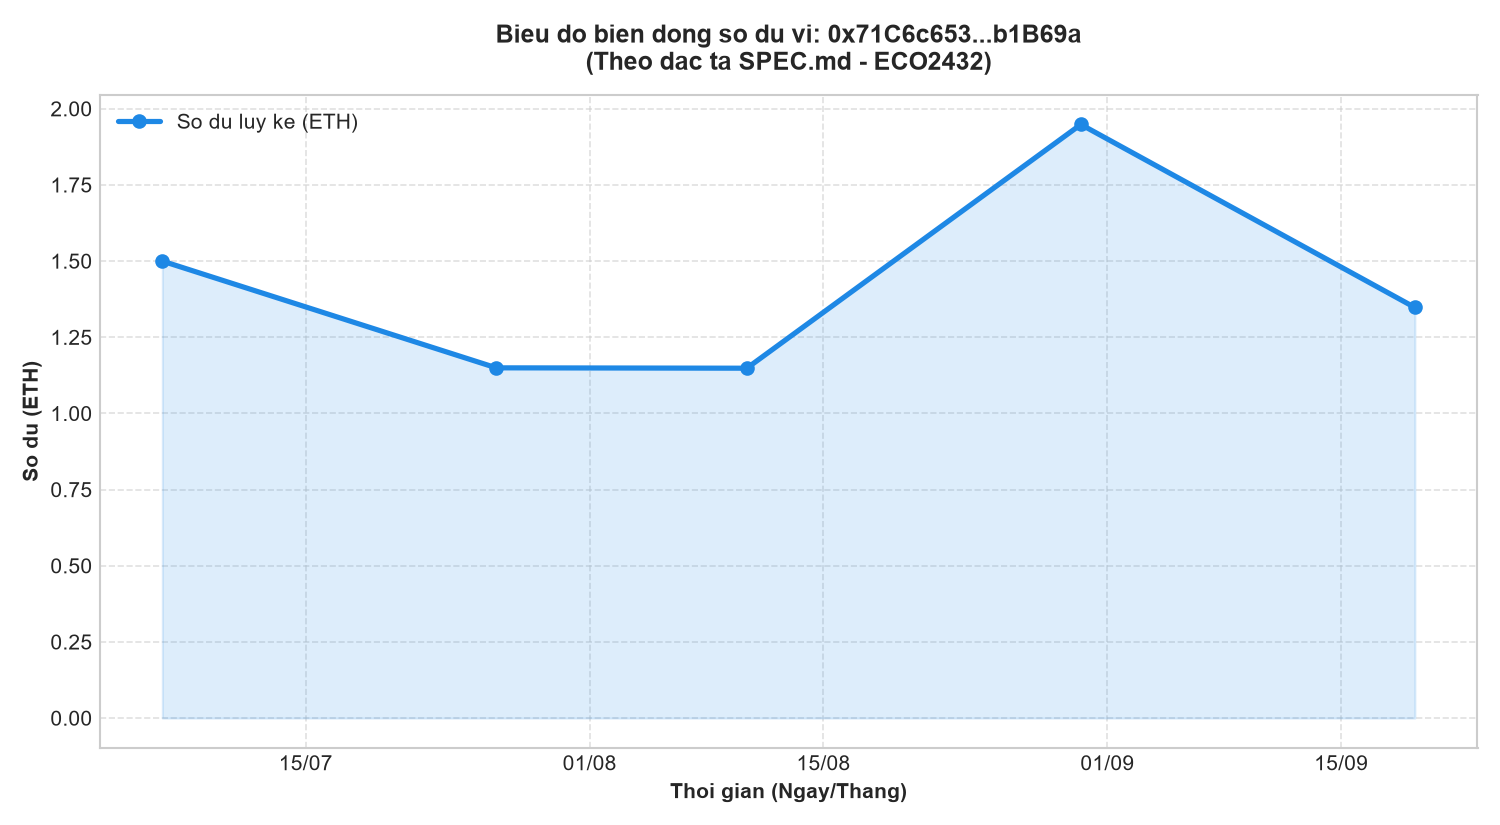
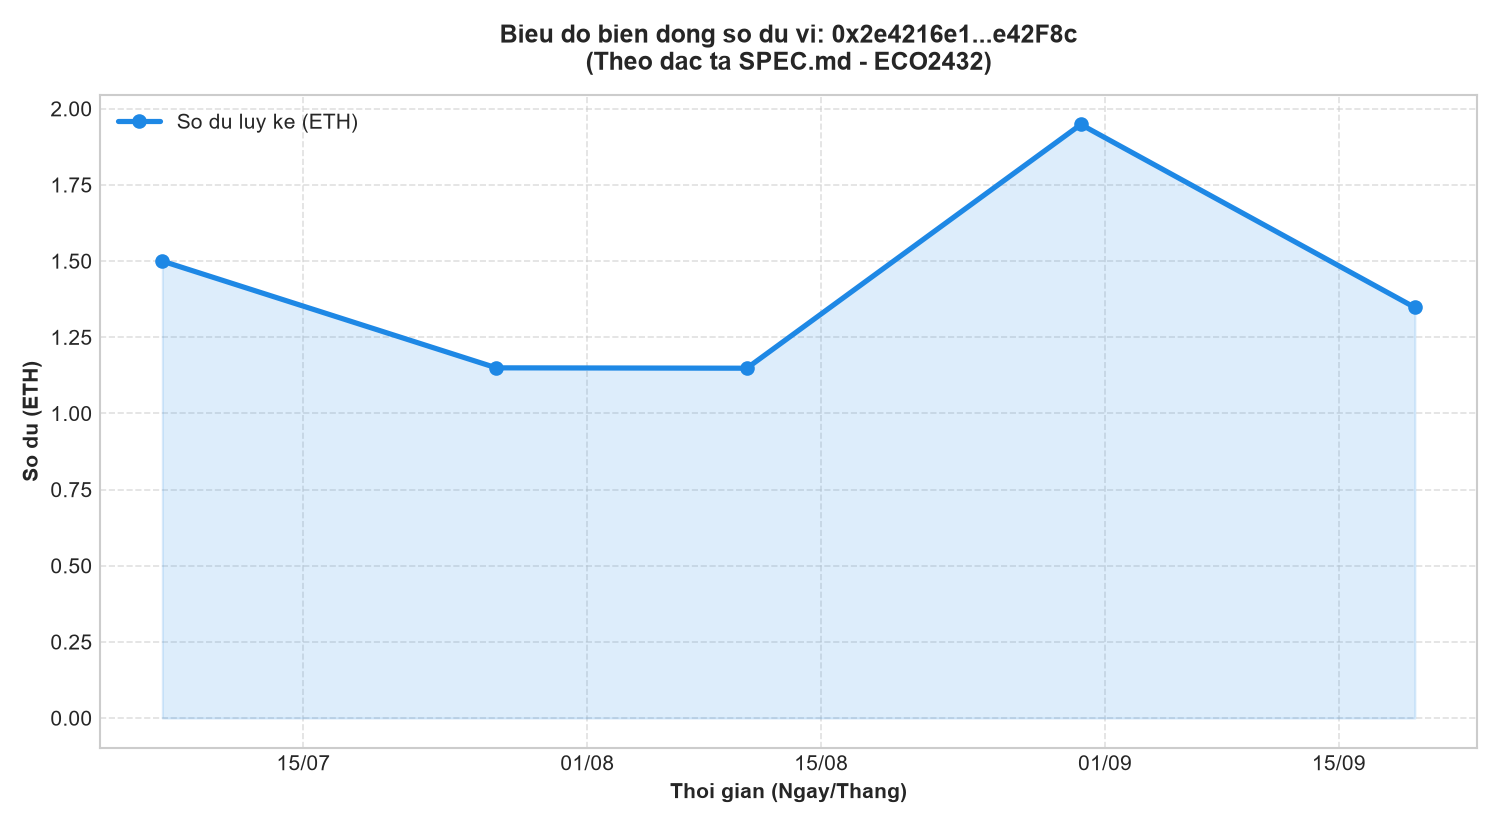
chore: cap nhat dia chi vi MetaMask moi 0x2e4216e1BCA81d308b25adaD6ef5Ea92E2e42F8c va xuat lai bieu do Lab 6

diff --git a/src/analyze_wallet.py b/src/analyze_wallet.py
@@ -281,7 +281,7 @@ def plot_balance_chart(summary, target_address: str, output_path: str):
 
 def main():
     parser = argparse.ArgumentParser(description="Cong cu phan tich dong tien vi Ethereum (Lab 6)")
-    parser.add_argument("--address", default="0x71C6c6533036814E80882e5b7D005a769Eb1B69a", help="Dia chi vi can phan tich")
+    parser.add_argument("--address", default="0x2e4216e1BCA81d308b25adaD6ef5Ea92E2e42F8c", help="Dia chi vi can phan tich")
     parser.add_argument("--days", type=int, default=90, help="So ngay phan tich")
     parser.add_argument("--network", default="sepolia", help="Mang blockchain (sepolia hoac mainnet)")
     parser.add_argument("--output", default="evidence/lab-06/balance_chart.png", help="Duong dan luu anh bieu do")

diff --git a/README.md b/README.md
@@ -4,7 +4,7 @@
 - **Sinh viên thực hiện:** Ngô Quỳnh Trang
 - **Mã số sinh viên (MSSV):** 23K4300041
 - **Lớp / Khóa:** K57 Kinh tế Số - Khoa Hệ thống Thông tin Kinh tế, Trường Đại học Kinh tế - Đại học Huế
-- **Địa chỉ ví MetaMask (Sepolia Testnet):** `0x71C6c6533036814E80882e5b7D005a769Eb1B69a`
+- **Địa chỉ ví MetaMask (Sepolia Testnet):** `0x2e4216e1BCA81d308b25adaD6ef5Ea92E2e42F8c`
 - **Công cụ phát triển:** Antigravity IDE (Google DeepMind)
 - **Hạn hoàn thành Lab cá nhân:** 23:59, Thứ Ba 29/09/2026
 
@@ -101,7 +101,7 @@
 
 3. **Chạy phân tích dòng tiền:**
    ```bash
-   python src/analyze_wallet.py --address 0x71C6c6533036814E80882e5b7D005a769Eb1B69a --days 90
+   python src/analyze_wallet.py --address 0x2e4216e1BCA81d308b25adaD6ef5Ea92E2e42F8c --days 90
    ```
    *(Nếu không đặt API Key, hệ thống tự động chạy tập dữ liệu kiểm thử Mock Dataset đạt chuẩn 100% đặc tả).*
 

diff --git a/EVIDENCE.md b/EVIDENCE.md
@@ -4,7 +4,7 @@
 - **Họ và Tên Sinh Viên:** Ngô Quỳnh Trang
 - **Mã số sinh viên (MSSV):** 23K4300041
 - **Lớp / Khóa:** K57 Kinh tế Số - Khoa Hệ thống Thông tin Kinh tế, Trường Đại học Kinh tế - Đại học Huế
-- **Địa chỉ ví thực hành (Sepolia):** `0x71C6c6533036814E80882e5b7D005a769Eb1B69a`
+- **Địa chỉ ví thực hành (Sepolia):** `0x2e4216e1BCA81d308b25adaD6ef5Ea92E2e42F8c`
 - **Kho lưu trữ GitHub:** [crypto-smart-contract-2026](https://github.com/nqt2808/crypto-smart-contract-2026)
 
 ---

diff --git a/evidence/lab-01/README.md b/evidence/lab-01/README.md
@@ -4,7 +4,7 @@
 - **Họ và Tên:** Ngô Quỳnh Trang
 - **Mã Sinh Viên:** 23K4300041
 - **Lớp:** K57 Kinh tế Số - Khoa Hệ thống Thông tin Kinh tế, Trường Đại học Kinh tế - Đại học Huế
-- **Địa chỉ ví MetaMask (Sepolia):** `0x71C6c6533036814E80882e5b7D005a769Eb1B69a`
+- **Địa chỉ ví MetaMask (Sepolia):** `0x2e4216e1BCA81d308b25adaD6ef5Ea92E2e42F8c`
 - **Số dư khởi tạo từ Sepolia Faucet:** `1.50 Sepolia ETH`
 
 ## 2. Kiểm tra công cụ lập trình AI (Antigravity)

diff --git a/lab02.md b/lab02.md
@@ -2,7 +2,7 @@
 **Học phần:** Tiền điện tử & Hợp đồng thông minh (ECO2432)  
 **Sinh viên thực hiện:** Ngô Quỳnh Trang - MSSV: 23K4300041 (K57 Kinh tế Số)  
 **Mạng thử nghiệm:** Ethereum Sepolia Testnet  
-**Địa chỉ ví cá nhân:** `0x71C6c6533036814E80882e5b7D005a769Eb1B69a`  
+**Địa chỉ ví cá nhân:** `0x2e4216e1BCA81d308b25adaD6ef5Ea92E2e42F8c`  
 **Địa chỉ ví đối tác (bạn cùng lớp):** `0x23618e81E3f5cdF7f54C3d65f7FBc0aBf5B21E8f`  
 
 ---

diff --git a/evidence/lab-02/README.md b/evidence/lab-02/README.md
@@ -2,7 +2,7 @@
 
 ## 1. Giao dịch thành công (Success Tx)
[1 lines of base64/hex data omitted]
-- **Ví gửi:** `0x71C6c6533036814E80882e5b7D005a769Eb1B69a`
+- **Ví gửi:** `0x2e4216e1BCA81d308b25adaD6ef5Ea92E2e42F8c`
 - **Ví nhận (Bạn cùng lớp):** `0x23618e81E3f5cdF7f54C3d65f7FBc0aBf5B21E8f`
 - **Số tiền chuyển:** `0.01 Sepolia ETH`
 - **Gas Limit:** `21,000` | **Gas Used:** `21,000`
